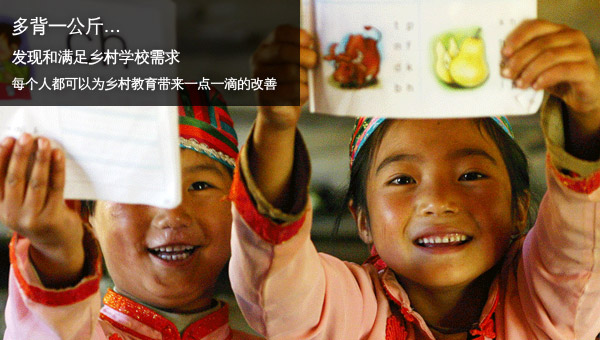
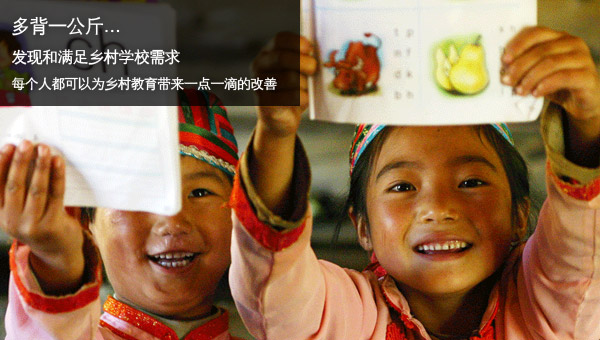
小图

diff --git a/public/stylesheets/core.css b/public/stylesheets/core.css
@@ -421,8 +421,8 @@ background:#d9e8af;border-bottom:1px #fff solid;color:#569701;}
 /* =siteIntro*/
 .siteIntro {
   float:left;
-  margin: 0 20px;
-  -margin: 0 10px;
+  margin: 0 6px;
+  -margin: 0 5px;
   padding: 5px;
   font-size:13px;
   color:#555;
